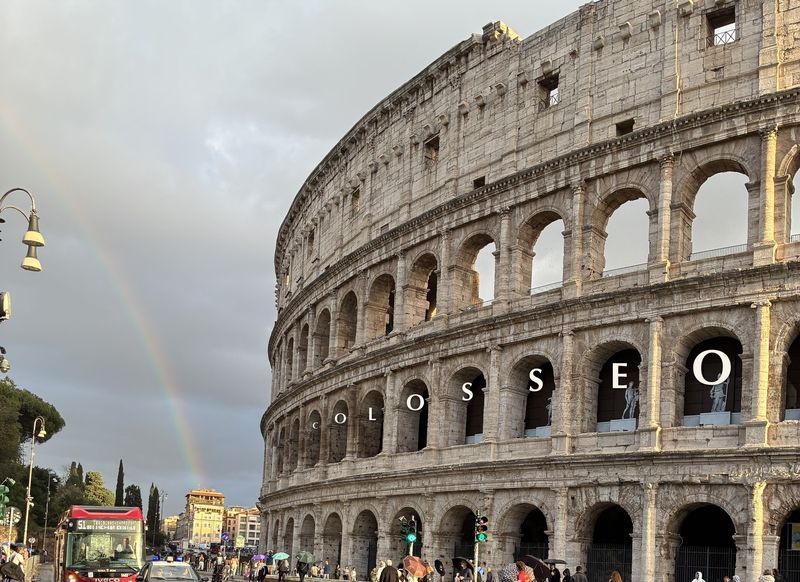
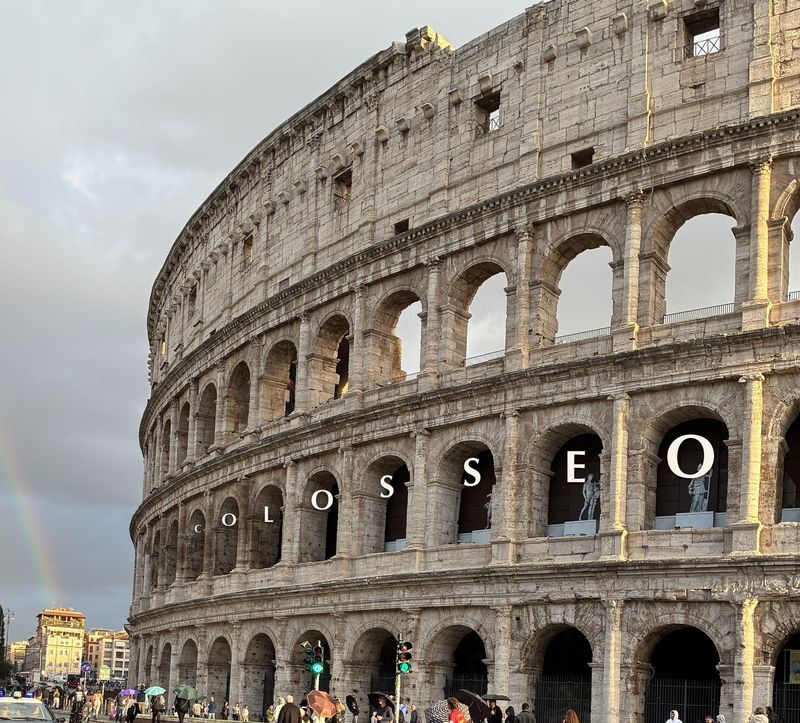
Crop Colosseum photo to remove the bus

diff --git a/styles.css b/styles.css
@@ -145,11 +145,11 @@ figcaption b { color: var(--ink); font-family: var(--f-display); }
 
 /* Title band: red box at 90% of page width, text left, Colosseum photo right */
 .hero-band { padding-top: 2.5rem; }
-.title-box { width: 90%; max-width: none; margin: 0 auto; padding: 0; gap: 0; grid-template-columns: minmax(0, 1fr) minmax(0, 40%); }
+.title-box { width: 90%; max-width: none; margin: 0 auto; padding: 0; gap: 0; grid-template-columns: minmax(0, 1fr) minmax(0, 34%); }
 .title-text { padding: clamp(1.4rem, 4vw, 2.8rem); display: grid; gap: 0.6rem; align-content: center; min-width: 0; }
 .title-text .eyebrow { color: color-mix(in srgb, var(--on-sapienza) 75%, transparent); margin: 0 0 0.2rem; }
 .title-box h1 { font-size: var(--s4); font-weight: 800; letter-spacing: 0.04em; }
-.title-photo { position: relative; aspect-ratio: 1400 / 1019; min-height: 100%; }
+.title-photo { position: relative; aspect-ratio: 1200 / 1085; min-height: 100%; }
 .title-photo img { position: absolute; inset: 0; width: 100%; height: 100%; max-width: none; object-fit: cover; object-position: 50% 50%; }
 .hero { padding-block: 0; }
 .hero .lede { margin-top: 2rem; }

diff --git a/index.html b/index.html
@@ -33,7 +33,7 @@
       <h1>COLOSSEO</h1>
       <p class="expansion"><b>COL</b>laborat<b>O</b>rium for earthquake physics using AI, <b>S</b>eismology, data <b>S</b>ci<b>E</b>nce and laboratory <b>O</b>bservations</p>
       </div>
-      <div class="title-photo"><img src="img/colosseo-hero.jpg" srcset="img/colosseo-hero-1000.jpg 800w, img/colosseo-hero.jpg 1400w" sizes="(max-width: 700px) 100vw, 40vw" width="1400" height="1019" alt="The Colosseum in Rome after rain, with a rainbow in the sky and the letters C-O-L-O-S-S-E-O set one per arch along the second tier"></div>
+      <div class="title-photo"><img src="img/colosseo-hero.jpg" srcset="img/colosseo-hero-1000.jpg 800w, img/colosseo-hero.jpg 1200w" sizes="(max-width: 700px) 100vw, 40vw" width="1200" height="1085" alt="The Colosseum in Rome after rain, with a rainbow in the sky and the letters C-O-L-O-S-S-E-O set one per arch along the second tier"></div>
     </div>
   </div>
   <div class="hero wrap">
